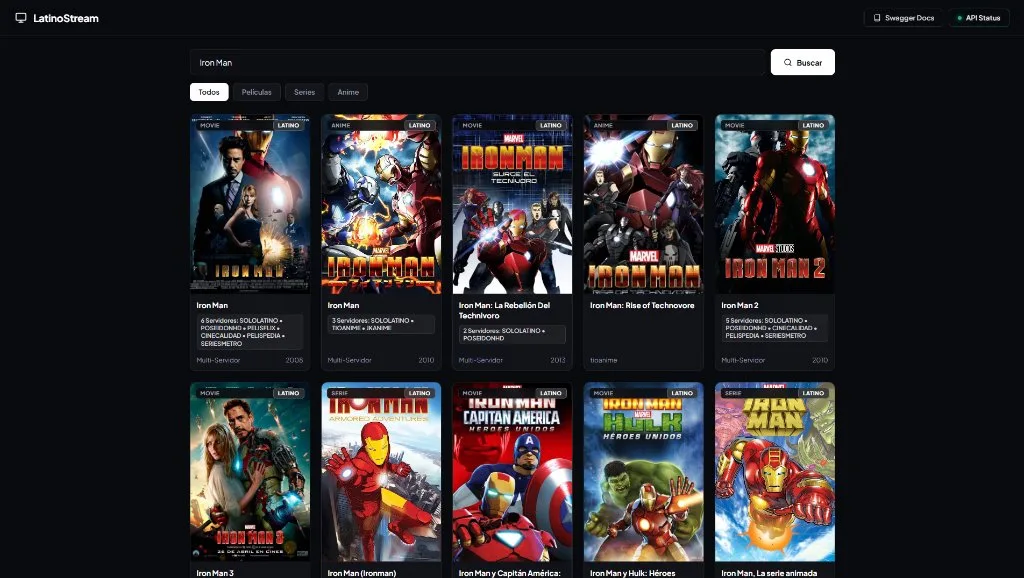
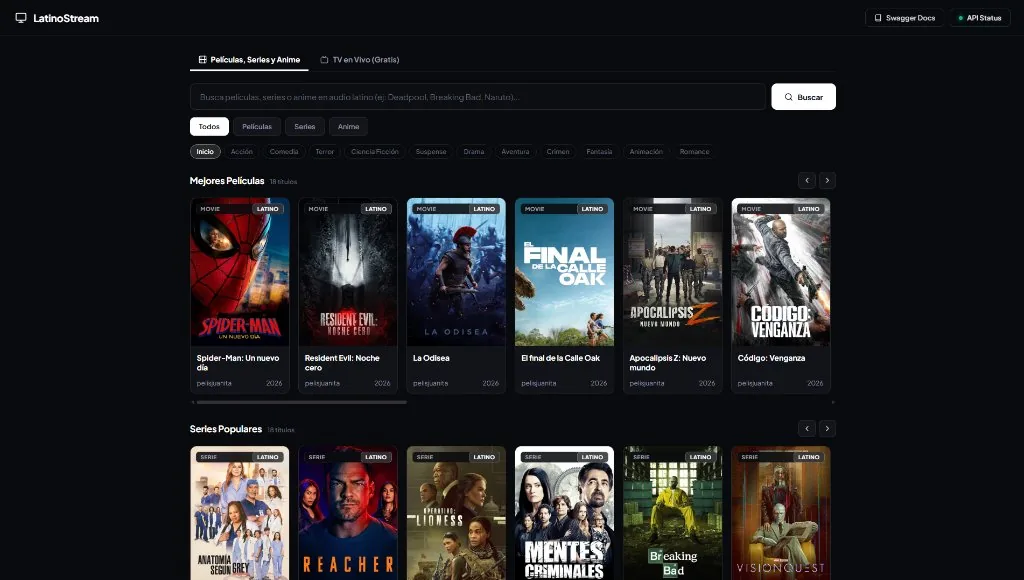
chore: update LatinoStream screenshots (new UI, Live TV, 12 providers)

diff --git a/src/data/projects.ts b/src/data/projects.ts
@@ -83,6 +83,7 @@ import imgLatinoStream2 from '../assets/images/latino-stream-2.webp';
 import imgLatinoStream3 from '../assets/images/latino-stream-3.webp';
 import imgLatinoStream4 from '../assets/images/latino-stream-4.webp';
 import imgLatinoStream5 from '../assets/images/latino-stream-5.webp';
+import imgLatinoStream6 from '../assets/images/latino-stream-6.webp';
 
 export interface Project {
   id: string;
@@ -164,17 +165,18 @@ export const projects: Project[] = [
   {
     id: 'latino-stream-scraper-api',
     title: 'LatinoStream - Scraper API & Reproductor Propio',
-    description: 'Suite backend y motor de scraping distribuido en tiempo real para servidores de streaming (Películas, Series y Anime en audio Latino). Integra API REST con OpenAPI 3.1 / Swagger, unificación multiserver de 9 proveedores (SoloLatino, CineCalidad, PelisFlix, etc.), extracción directa de streams sin anuncios ni popups, reverse proxy HLS y reproductor propio.',
-    descriptionEn: 'Real-time distributed backend scraper suite for video streaming platforms (Movies, Series, and Anime with Latino audio). Features REST API with OpenAPI 3.1 / Swagger, 9-provider multi-server normalization (SoloLatino, CineCalidad, etc.), direct ad-free stream extraction, HLS stream proxy, and a custom native web player.',
-    technologies: ['Backend API', 'Web Scraping', 'OpenAPI 3.1 (Swagger)', 'HLS Stream Proxy', 'Extracción de Streams', 'Reproductor Propio'],
+    description: 'Suite backend y motor de scraping distribuido en tiempo real para Películas, Series, Anime en audio Latino y TV en Vivo gratuita (+2.800 canales IPTV + TDT). Integra API REST con OpenAPI 3.1 / Swagger, unificación multiserver de 12 proveedores, extracción directa sin anuncios ni popups, reverse proxy HLS y reproductor propio.',
+    descriptionEn: 'Real-time distributed backend scraper suite for Movies, Series, Latino-dubbed Anime, and free Live TV (+2,800 IPTV + TDT channels). Features REST API with OpenAPI 3.1 / Swagger, 12-provider multi-server normalization, direct ad-free stream extraction, HLS stream proxy, and a custom native web player.',
+    technologies: ['Backend API', 'Web Scraping', 'OpenAPI 3.1 (Swagger)', 'IPTV / HLS Proxy', 'Extracción de Streams', 'Reproductor Propio'],
     category: 'Backend',
     imageUrl: imgLatinoStream1,
     imageUrls: [
       imgLatinoStream1,
-      imgLatinoStream2,
-      imgLatinoStream3,
+      imgLatinoStream6,
       imgLatinoStream4,
-      imgLatinoStream5
+      imgLatinoStream2,
+      imgLatinoStream5,
+      imgLatinoStream3
     ],
     featured: true,
     customCTA: {
